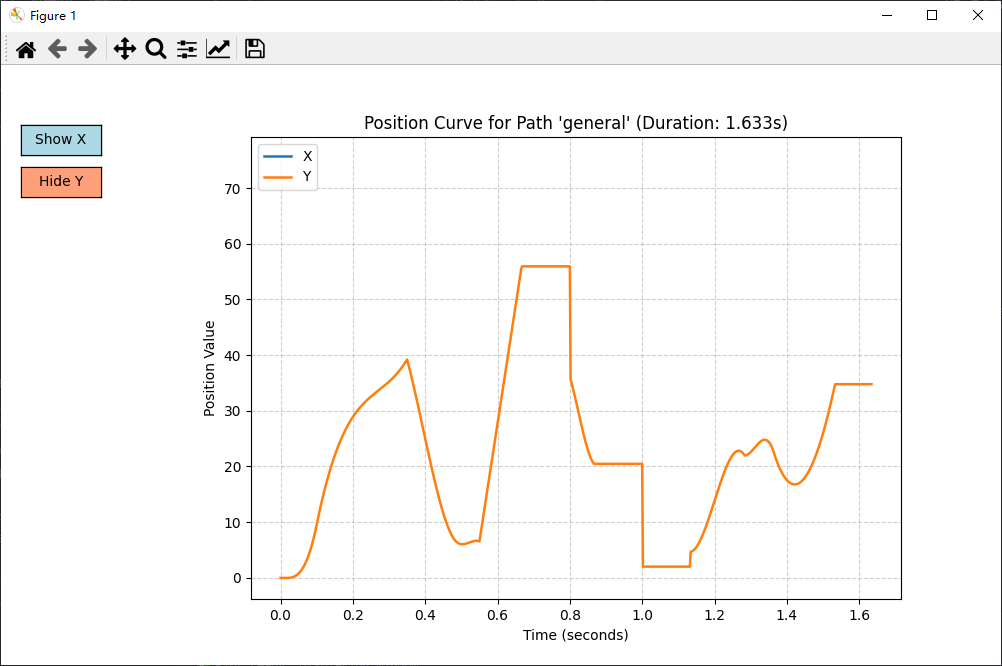
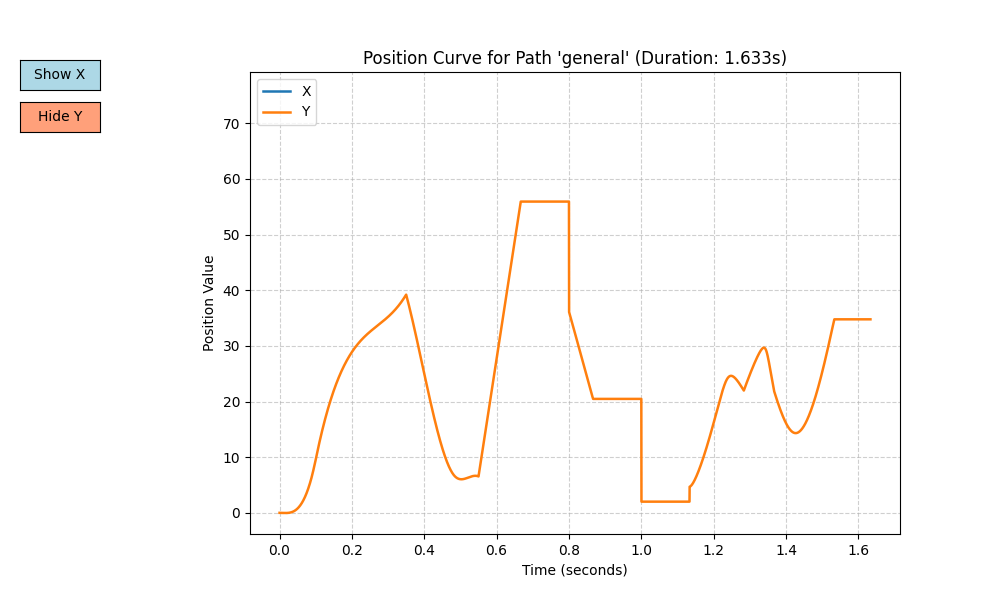
update Interpolation, but weight still inaccurate

diff --git a/unity_animation_player/numba_interpolaion.py b/unity_animation_player/numba_interpolaion.py
@@ -1,0 +1,70 @@
+from .config import USE_JIT
+
+if USE_JIT:
+    try:
+        from numba import njit
+    except:
+        njit = lambda *args, **kwargs: lambda f: f
+else:
+    njit = lambda *args, **kwargs: lambda f: f
+
+from numba import njit
+import numpy as np
+
+@njit(cache=True)
+def _hermite_spline_core(t, x0, x1, y0, y1, x1_ctl, y1_ctl, x2_ctl, y2_ctl, w0, w1, w2, w3):
+    """核心计算逻辑，只编译一次"""
+    # 解方程: (B0*w0*x0 + B1*w1*x1_ctl + B2*w2*x2_ctl + B3*w3*x1) / denom = t
+    # 等价于: B0*w0*(x0-t) + B1*w1*(x1_ctl-t) + B2*w2*(x2_ctl-t) + B3*w3*(x1-t) = 0
+    # 其中 B0=(1-u)^3, B1=3u(1-u)^2, B2=3u^2(1-u), B3=u^3
+    
+    # 整理成三次方程: a*u^3 + b*u^2 + c*u + d = 0
+    a = w3*(x1-t) - 3*w2*(x2_ctl-t) + 3*w1*(x1_ctl-t) - w0*(x0-t)
+    b = 3*w2*(x2_ctl-t) - 6*w1*(x1_ctl-t) + 3*w0*(x0-t)
+    c = 3*w1*(x1_ctl-t) - 3*w0*(x0-t)
+    d = w0*(x0-t)
+    
+    # 求三次方程在[0,1]内的实根
+    # 使用卡丹公式或数值迭代，这里用牛顿法（3-5次即可）
+    u = 0.5  # 初始猜测
+    for _ in range(10):
+        # 计算多项式值
+        f = ((a * u + b) * u + c) * u + d
+        f_prime = (3 * a * u + 2 * b) * u + c
+        u_new = u - f / f_prime
+        if abs(u_new - u) < 1e-12:
+            u = u_new
+            break
+        u = u_new
+    
+    # 计算y坐标
+    u1 = 1 - u
+    B0 = u1 * u1 * u1
+    B1 = 3 * u * u1 * u1
+    B2 = 3 * u * u * u1
+    B3 = u * u * u
+    
+    denom = B0*w0 + B1*w1 + B2*w2 + B3*w3
+    y = (B0*w0*y0 + B1*w1*y1_ctl + B2*w2*y2_ctl + B3*w3*y1) / denom
+    return y
+
+
+def RationalBezierInterpolation(x0: float, x1: float, 
+                       y0: float, y1: float, 
+                       k0: float, k1: float, 
+                       w0: float = 1.0, w1: float = 1.0, w2: float = 1.0, w3: float = 1.0):
+    # 计算中间控制点（同之前）
+    dx = x1 - x0
+    dy = y1 - y0
+    t_param = 1.0 / 3.0
+    
+    x1_ctl = x0 + t_param * dx
+    y1_ctl = y0 + k0 * (x1_ctl - x0)
+    
+    x2_ctl = x0 + (1 - t_param) * dx
+    y2_ctl = y1 - k1 * (x1 - x2_ctl)
+    
+    def spline(t):
+        return _hermite_spline_core(t, x0, x1, y0, y1, x1_ctl, y1_ctl, x2_ctl, y2_ctl, w0, w1, w2, w3)
+    
+    return spline

diff --git a/examples/qml_window_example_windows/graph_window.py b/examples/qml_window_example_windows/graph_window.py
@@ -1,0 +1,18 @@
+import pyqtgraph as pg
+from PySide6.QtWidgets import QWidget, QVBoxLayout
+
+from typing import List, Tuple
+class AnimGraphWidget(QWidget):
+    def __init__(self):
+        super().__init__()
+        
+        self.layout = QVBoxLayout()
+        self.plot_widget = pg.PlotWidget()
+        self.layout.addWidget(self.plot_widget)
+        self.setLayout(self.layout)
+
+    def update_plot(self, points: List[Tuple[float, float]]):
+        self.plot_widget.clear()
+        x_vals = [point[0] for point in points]
+        y_vals = [point[1] for point in points]
+        curve = self.plot_widget.plot(x_vals, y_vals, pen=(255, 255, 255))

diff --git a/unity_animation_player/parse_yaml.py b/unity_animation_player/parse_yaml.py
@@ -1,4 +1,4 @@
-from .numba_hermite import CubicHermiteSpline
+from .numba_interpolaion import RationalBezierInterpolation
 import numpy as np
 
 class MixedSegment:
@@ -40,11 +40,13 @@ def piecewise_hermite(x_points, y_points, in_slopes, out_slopes, in_weights, out
     in_sl = np.array(in_sl_raw, dtype=float)
     out_sl = np.array(out_sl_raw, dtype=float)
 
+    """
     for i in range(len(weightedMode)):
         mode = int(weightedMode[i])
         # Create finite value mask
         finite_in = np.isfinite(in_sl[i])
         finite_out = np.isfinite(out_sl[i])
+        
         
         if mode == 0:  # Neither in_sl nor out_sl multiplied by weights
             # Only clip finite values, don't multiply by weights
@@ -67,6 +69,7 @@ def piecewise_hermite(x_points, y_points, in_slopes, out_slopes, in_weights, out
                 in_sl[i] = np.clip(in_sl[i], -1e8, 1e8)
             if finite_out:
                 out_sl[i] = np.clip(out_sl[i] * out_weights[i], -1e8, 1e8)  # NOT ACCURATE
+    """
 
     tangentMode = np.array(tangentMode, dtype=float)
 
@@ -88,6 +91,8 @@ def piecewise_hermite(x_points, y_points, in_slopes, out_slopes, in_weights, out
         sub_y = y_points[i0:i1+1]
         sub_in = in_sl[i0:i1+1]
         sub_out = out_sl[i0:i1+1]
+        weight_in = in_weights[i0:i1+1]
+        weight_out = out_weights[i0:i1+1]
 
         num_intervals = len(sub_x) - 1
         if num_intervals <= 0:
@@ -114,8 +119,11 @@ def piecewise_hermite(x_points, y_points, in_slopes, out_slopes, in_weights, out
             else:
                 slope0 = sub_out[k]
                 slope1 = sub_in[k+1]
+                weight0 = weight_out[k]
+                weight1 = weight_in[k+1]
 
-                hermite = CubicHermiteSpline(x0, x1, y0, y1, slope0, slope1)
+
+                hermite = RationalBezierInterpolation(x0, x1, y0, y1, slope0, slope1, 1/3, weight0, weight1, 1/3)
                 interpolator = hermite
 
             segments.append(MixedSegment(x0, x1, interpolator))

diff --git a/unity_animation_player/__init__.py b/unity_animation_player/__init__.py
@@ -1,10 +1,12 @@
 from .animation_player import AnimationPlayer
 from .pyside_animation_player import PysideAnimationPlayer
-from .numba_hermite import CubicHermiteSpline
+from .numba_interpolaion import RationalBezierInterpolation
+from .config import USE_JIT
 
-# Compile in advance
-_ = CubicHermiteSpline(0, 1, 0, 1, 0, 0)
-_(0.5)
+if USE_JIT:
+    # Compile in advance
+    _ = RationalBezierInterpolation(0, 1, 0, 1, 0, 0, 1, 1, 1, 1)
+    _(0.5)
 
 __all__ = [
     "AnimationPlayer",

diff --git a/unity_animation_player/animation_player.py b/unity_animation_player/animation_player.py
@@ -2,6 +2,8 @@ from functools import lru_cache
 from typing import Dict, Any, Tuple, Union, Optional
 from dataclasses import asdict
 
+import numpy as np
+
 from .parse_yaml import parse_anim
 from .cache_yaml import load_yaml
 
@@ -162,3 +164,9 @@ class AnimationPlayer:
         dic['playable'] = False
 
         return dic, False
+    
+    def sample_range(self, sample_rate=0.01, t_start=None, t_end=None, **kwargs):
+        t_start = 0.0 if t_start is None else t_start
+        t_end = self.stop_time if t_end is None else t_end
+        sample_points = [self.play_frame(t, **kwargs)[0] for t in np.arange(t_start, t_end, sample_rate)]
+        return sample_points

diff --git a/example.py b/example.py
@@ -13,7 +13,7 @@ for file_path in example_files:
     EXAMPLE.append(example_name)
 
 print("Choose an example:")
-
+    
 for i, example in enumerate(EXAMPLE):
     print(f"{i+1}.{example}")
 

diff --git a/examples/qml_window_example.py b/examples/qml_window_example.py
@@ -1,7 +1,7 @@
 import sys
 from PySide6.QtWidgets import QApplication
 
-from .example_windows.example_window import ExampleWindow
+from .qml_window_example_windows.ball_window import ExampleWindow
 
 def main():
     app = QApplication(sys.argv)

diff --git a/visualization.py b/visualization.py
@@ -38,7 +38,7 @@ def main():
         selected_path = fallback
 
     # 4. Sample position over time (from 0 to stop_time, step = 0.002s)
-    dt = 0.002
+    dt = 0.0002
     max_t = player.stop_time
     times = np.arange(0, max_t + dt, dt)
     xs, ys = [], []

diff --git a/unity_animation_player/config.py b/unity_animation_player/config.py
@@ -1,0 +1,1 @@
+USE_JIT = True